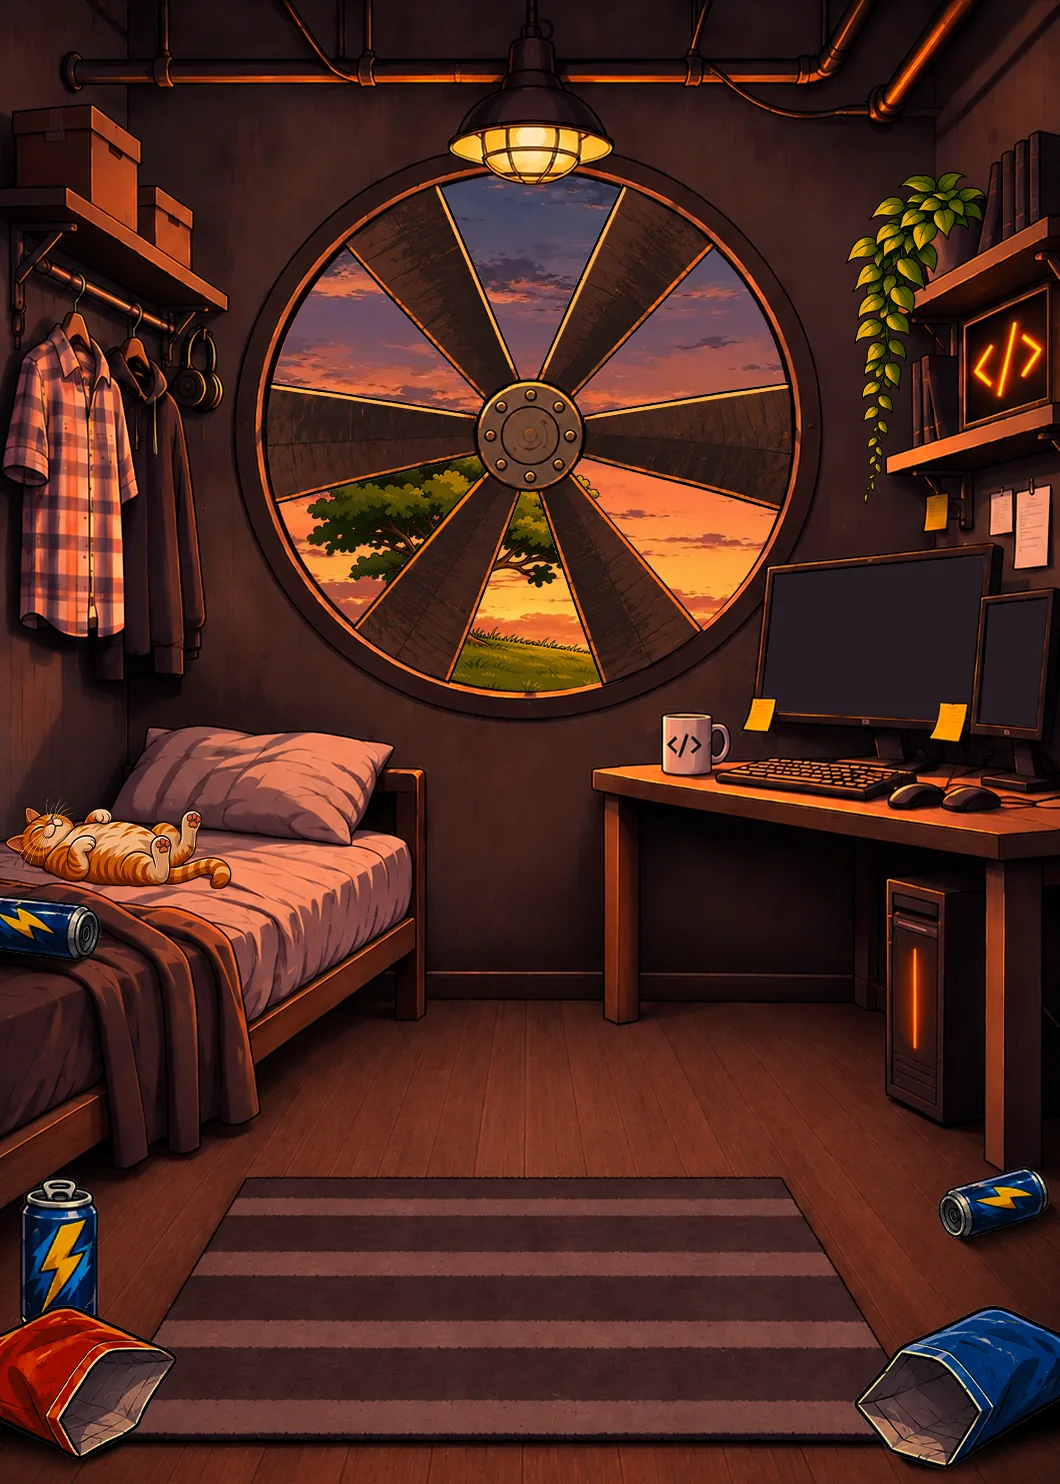
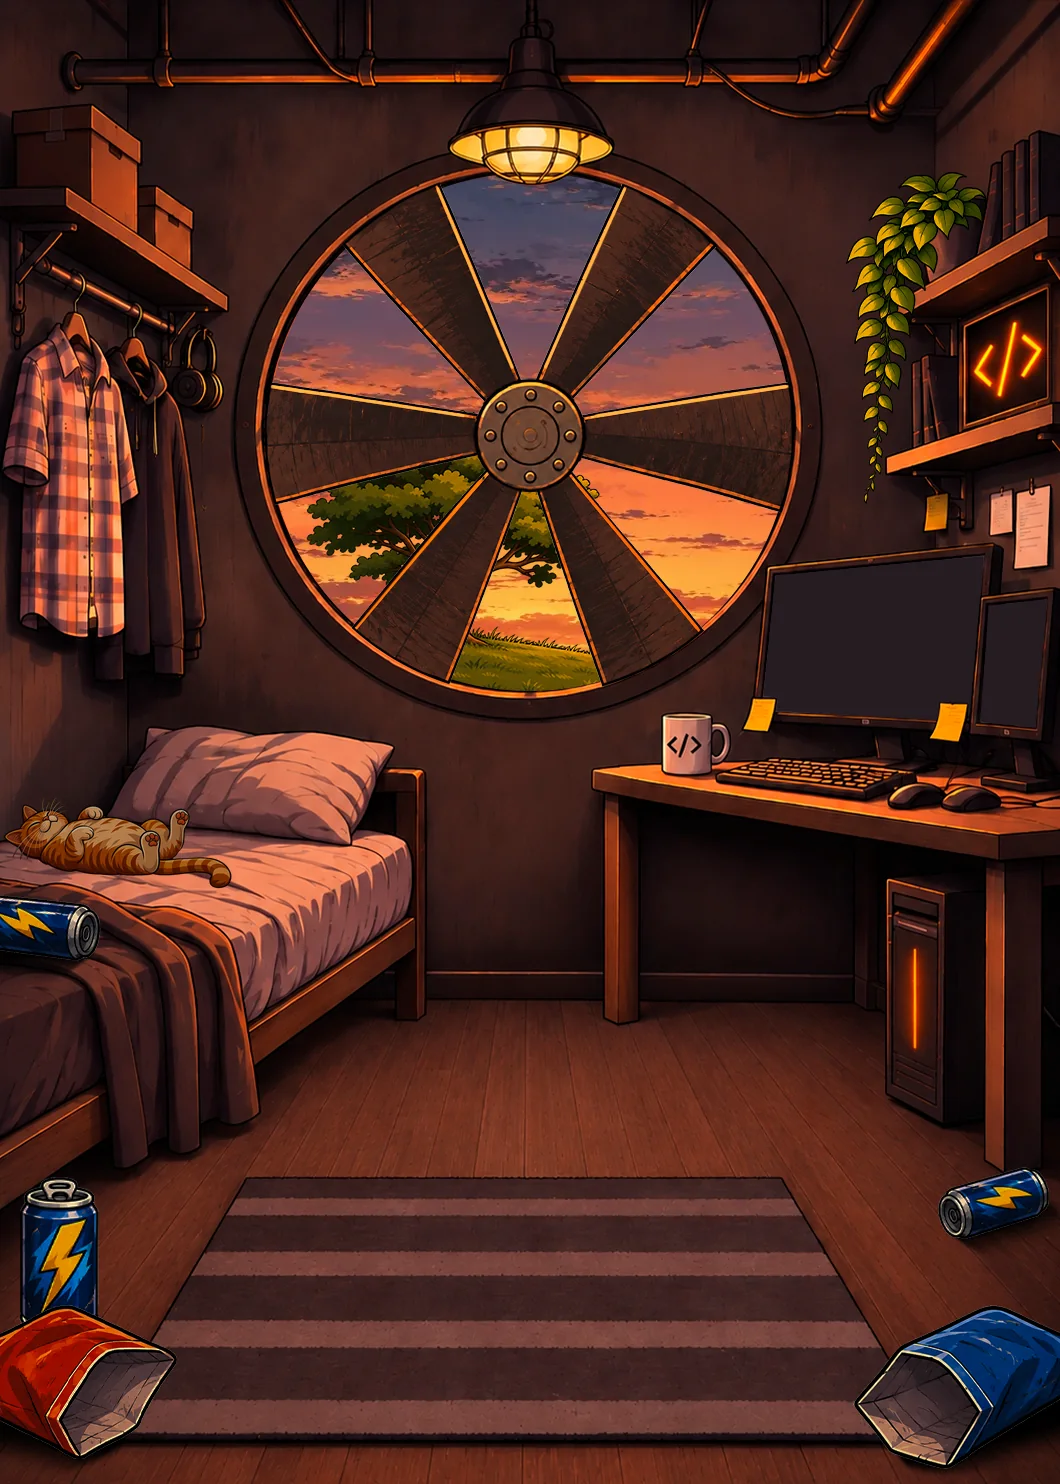
Фокус's cat: the artist's body and paw — the paw twitches, the hind leg stirs, the tail shifts over and back; the floor things' night tone as before
Claude-Session: https://claude.ai/code/session_01XtpZhZabEYUcJEQKQgYpHe

Changed region(s): [[0.0, 0.527, 0.2179, 0.6199]]

diff --git a/src/app/screens.css b/src/app/screens.css
@@ -7661,8 +7661,18 @@ body.has-full .modal-back:not(.full):not(.page) { top: 0; }
 @keyframes fkr-spin { to { transform: rotate(360deg); } }
 .fkr-plant { animation: fkr-plant 4.2s ease-in-out infinite; }
 @keyframes fkr-plant { 0%, 100% { transform: rotate(0deg) skewX(0deg); } 35% { transform: rotate(2.6deg) skewX(-1.5deg); } 70% { transform: rotate(-1.8deg) skewX(1deg); } }
-.fkr-cat { animation: fkr-cat 3.4s ease-in-out infinite; transform-origin: 118px 889px; transform-box: view-box; }
+.fkr-cat { animation: fkr-cat 3.4s ease-in-out infinite; }
 @keyframes fkr-cat { 0%, 100% { transform: scaleY(1); } 50% { transform: scaleY(1.03); } }
+/* the paw: still, then a sharp twitch (twice quickly), still again */
+.fkr-cat-paw { animation: fkr-cat-paw 6.5s linear infinite; }
+@keyframes fkr-cat-paw { 0%, 70%, 100% { transform: rotate(0deg); } 71.5% { transform: rotate(-16deg); } 73% { transform: rotate(2deg); } 74.5% { transform: rotate(-11deg); } 76.5% { transform: rotate(0deg); } }
+/* the hind leg stirs a little, slowly */
+.fkr-cat-leg { animation: fkr-cat-leg 5.3s ease-in-out infinite; }
+@keyframes fkr-cat-leg { 0%, 100% { transform: rotate(0deg); } 50% { transform: rotate(4deg); } }
+/* the tail: shifted over, a pause, shifted back, a pause */
+.fkr-cat-tail { animation: fkr-cat-tail 9s ease-in-out infinite; }
+@keyframes fkr-cat-tail { 0%, 8% { transform: rotate(0deg); } 20%, 52% { transform: rotate(-7deg); } 64%, 100% { transform: rotate(0deg); } }
+@media (prefers-reduced-motion: reduce) { .fkr-cat-paw, .fkr-cat-leg, .fkr-cat-tail { animation: none; } }
 .fkr-winglow { animation-name: fkr-winglow; }
 @keyframes fkr-winglow { 0% { opacity: 0; } 8%, 42% { opacity: 0.75; } 52%, 100% { opacity: 0; } }
 /* the window's light on the floor: it moves against the light — right in the morning, left in the evening */
@@ -7677,9 +7687,11 @@ body.has-full .modal-back:not(.full):not(.page) { top: 0; }
   57% { transform: translate(760px, 1215px); opacity: 0.6; } 76% { transform: translate(530px, 1235px); opacity: 0.8; }
   96% { transform: translate(300px, 1215px); opacity: 0.6; } 100% { transform: translate(260px, 1215px); opacity: 0.3; } }
 /* the things over the chair at home (layer "front"): the night on them by a filter, on the same clock as the tint */
-/* the things over the chair at home (layer "front"): a dark copy over them follows the night tint (opacity only — an
-   animated filter repaints every frame on a phone) */
-.fkr-live .fkr-front-dark { animation: fkr-night-tint var(--fkr-cycle) linear infinite; }
+/* the things over the chair at home (layer "front"): the night on them by a filter, on the same clock as the room */
+.fkr-live.fkr-front { animation: fkr-front-night var(--fkr-cycle) linear infinite; }
+@keyframes fkr-front-night {
+  0% { filter: brightness(0.36) saturate(0.7) sepia(0); } 3% { filter: brightness(0.8) saturate(1.1) sepia(0.2); } 5%, 45% { filter: brightness(1) saturate(1) sepia(0); }
+  49% { filter: brightness(0.8) saturate(1.1) sepia(0.2); } 55%, 100% { filter: brightness(0.36) saturate(0.7) sepia(0); } }
 .fkr-night-tint { animation-name: fkr-night-tint; }
 @keyframes fkr-night-tint { 0% { opacity: 0.68; } 5%, 45% { opacity: 0; } 55%, 100% { opacity: 0.68; } }
 .fkr-dusk-tint { animation-name: fkr-dusk-tint; }

diff --git a/src/client/art/arena-fokus.tsx b/src/client/art/arena-fokus.tsx
@@ -41,10 +41,6 @@ export function FokusRoom({ uid = "a", layer = "all" }: { uid?: string; layer?: 
     return (
       <g className="fkr-live fkr-front">
         {PROPS.map((n) => thing(n))}
-        <defs>
-          <filter id={`fkr-dk-${uid}`}><feColorMatrix type="matrix" values="0 0 0 0 0.02  0 0 0 0 0.04  0 0 0 0 0.11  0 0 0 1 0" /></filter>
-        </defs>
-        <g className="fkr-front-dark" filter={`url(#fkr-dk-${uid})`}>{PROPS.map((n) => thing(n))}</g>
       </g>
     );
   }
@@ -109,7 +105,20 @@ export function FokusRoom({ uid = "a", layer = "all" }: { uid?: string; layer?: 
         <g className="fkr-pool-moon"><ellipse cx={0} cy={0} rx={240} ry={84} fill={`url(#fkr-mpool-${uid})`} /></g>
       </g>
       {/* the cat on the bed and the things on the floor (at home the things go over the chair: layer "front") */}
-      {thing("cat")}
+      {/* the cat on the bed: breathes; the paw twitches now and then, the hind leg stirs, the tail is shifted and back */}
+      {(() => {
+        const c = R["cat-rig"];
+        const P = (x: number, y: number) => at(c.x + x * c.sx, c.y + y * c.sy);
+        const pic = (n: string) => <image href={`${A}/${n}.webp?v=1`} x={c.x} y={c.y} width={c.w} height={c.h} preserveAspectRatio="none" />;
+        return (
+          <g className="fkr-cat" style={P(280, 250)}>
+            <g className="fkr-cat-tail" style={P(372, 205)}>{pic("cat-tail")}</g>
+            {pic("cat-body")}
+            <g className="fkr-cat-leg" style={P(412, 148)}>{pic("cat-leg")}</g>
+            <g className="fkr-cat-paw" style={P(165, 185)}>{pic("cat-paw")}</g>
+          </g>
+        );
+      })()}
       {layer === "all" && PROPS.map((n) => thing(n))}
       {/* the ivy sways from where it hangs */}
       <g className="fkr-plant" style={at(box("plant").x + box("plant").w * 0.62, box("plant").y + 6)}>{img("plant")}</g>

diff --git a/src/content/updates.ts b/src/content/updates.ts
@@ -21,6 +21,7 @@ export const UPDATES: UpdateNote[] = [
     date: "22 ноября",
     title: "Фартук Утилизатора",
     items: [
+      { img: "/assets/updates/2026-11-22-coder.webp", text: "Кот Фокуса на кровати ожил: дёргает лапкой, шевелит ногой и перекладывает хвост." },
       { text: "На карточках боссов больше нет подписей, кто они такие." },
       { img: "/bosses/fokus/portrait.webp", text: "Новая карточка Фокуса в списке боссов: окно в крови, по экрану пишется код, сверху бежит его обещание, а экран то и дело коротит." },
       { img: "/assets/zarub/bag-blat-1.webp", text: "Зарубы: у каждой сумки свой цвет — пацанские зелёная, синяя и бордовая, блатные коричневая, жёлтая и красная, авторитетные серая, белая и фиолетовая." },

diff --git a/src/client/asset-manifest.ts b/src/client/asset-manifest.ts
@@ -7,6 +7,10 @@ export const ASSET_FILES: string[] = [
  "/assets/arena/botsman/room.webp",
  "/assets/arena/botsman.webp",
  "/assets/arena/datsik.webp",
+ "/assets/arena/fokus/cat-body.webp",
+ "/assets/arena/fokus/cat-leg.webp",
+ "/assets/arena/fokus/cat-paw.webp",
+ "/assets/arena/fokus/cat-tail.webp",
  "/assets/arena/fokus/cat.webp",
  "/assets/arena/fokus/plant.webp",
  "/assets/arena/fokus/prop-0.webp",

diff --git a/src/client/art/arena-fokus-data.ts b/src/client/art/arena-fokus-data.ts
@@ -33,6 +33,14 @@ export const FOKUS_ROOM = {
   "w": 228,
   "h": 96
  },
+ "cat-rig": {
+  "x": 1.41,
+  "y": 785.14,
+  "w": 238.78,
+  "h": 111.31,
+  "sx": 0.431,
+  "sy": 0.41379
+ },
  "prop-0": {
   "x": 0,
   "y": 894,

diff --git a/tools/boss/build-fokus-room.py b/tools/boss/build-fokus-room.py
@@ -49,6 +49,26 @@ def put(name, im, q=88):
 
 for n in ["propeller", "plant", "tree", "cat"]:
     put(n, load(n))
+# the cat (the artist's cat/body.png + cat/paw.png, 554×269, in place to each other; dimmed already): the tail and the
+# raised hind leg cut out of the body to move on their own — the body's box in the room is cat.png's
+cb = Image.open(f"{S}/cat/body.png").convert("RGBA")
+cpaw = Image.open(f"{S}/cat/paw.png").convert("RGBA")
+ca = np.array(cb)
+yy, xx = np.mgrid[0:ca.shape[0], 0:ca.shape[1]]
+tail = (xx >= 372) & (yy >= 172)
+leg = (xx >= 385) & (xx <= 448) & (yy <= 150) & ~tail
+parts = {"cat-tail": tail, "cat-leg": leg}
+rest = ca.copy()
+for nm, m in parts.items():
+    im = ca.copy(); im[..., 3] = np.where(m, im[..., 3], 0)
+    Image.fromarray(im).save(f"{O}/{nm}.webp", quality=88, method=6, exact=True)
+    rest[..., 3] = np.where(m, 0, rest[..., 3])
+Image.fromarray(rest).save(f"{O}/cat-body.webp", quality=88, method=6, exact=True)
+cpaw.save(f"{O}/cat-paw.webp", quality=88, method=6, exact=True)
+bb = cb.getbbox()
+cat_box = Image.open(f"{S}/cat.png").getbbox()
+sx, sy = (cat_box[2] - cat_box[0]) / (bb[2] - bb[0]), (cat_box[3] - cat_box[1]) / (bb[3] - bb[1])
+boxes["cat-rig"] = {"x": round(cat_box[0] - bb[0] * sx, 2), "y": round(cat_box[1] - bb[1] * sy, 2), "w": round(cb.width * sx, 2), "h": round(cb.height * sy, 2), "sx": round(sx, 5), "sy": round(sy, 5)}
 # the props: each connected thing on its own (small specks go with their nearest thing)
 p = load("props")
 a = np.array(p)[..., 3] > 6
@@ -86,8 +106,11 @@ open("src/client/art/arena-fokus-data.ts", "w").write(ts)
 flat = Image.new("RGBA", (W, H), (0, 0, 0, 255))
 sky = Image.open(f"{O}/sky-day.webp").convert("RGBA")
 flat.alpha_composite(sky.crop((0, 0, min(sky.width, W), sky.height)), (0, int(WIN[1] - sky.height / 2)))
-for n in ["tree", "room", "propeller", "plant", "props", "cat"]:
+for n in ["tree", "room", "propeller", "plant", "props"]:
     flat.alpha_composite(room if n == "room" else load(n))
+cr = boxes["cat-rig"]
+cat_full = cb.copy(); cat_full.alpha_composite(cpaw)
+flat.alpha_composite(cat_full.resize((round(cr["w"]), round(cr["h"])), Image.LANCZOS), (round(cr["x"]), round(cr["y"])))
 flat.convert("RGB").save("public/assets/arena/fokus.webp", quality=84, method=6)
 flat.convert("RGB").save("tools/scene/source/room-coder.png")
 print("ok", json.dumps(boxes))
